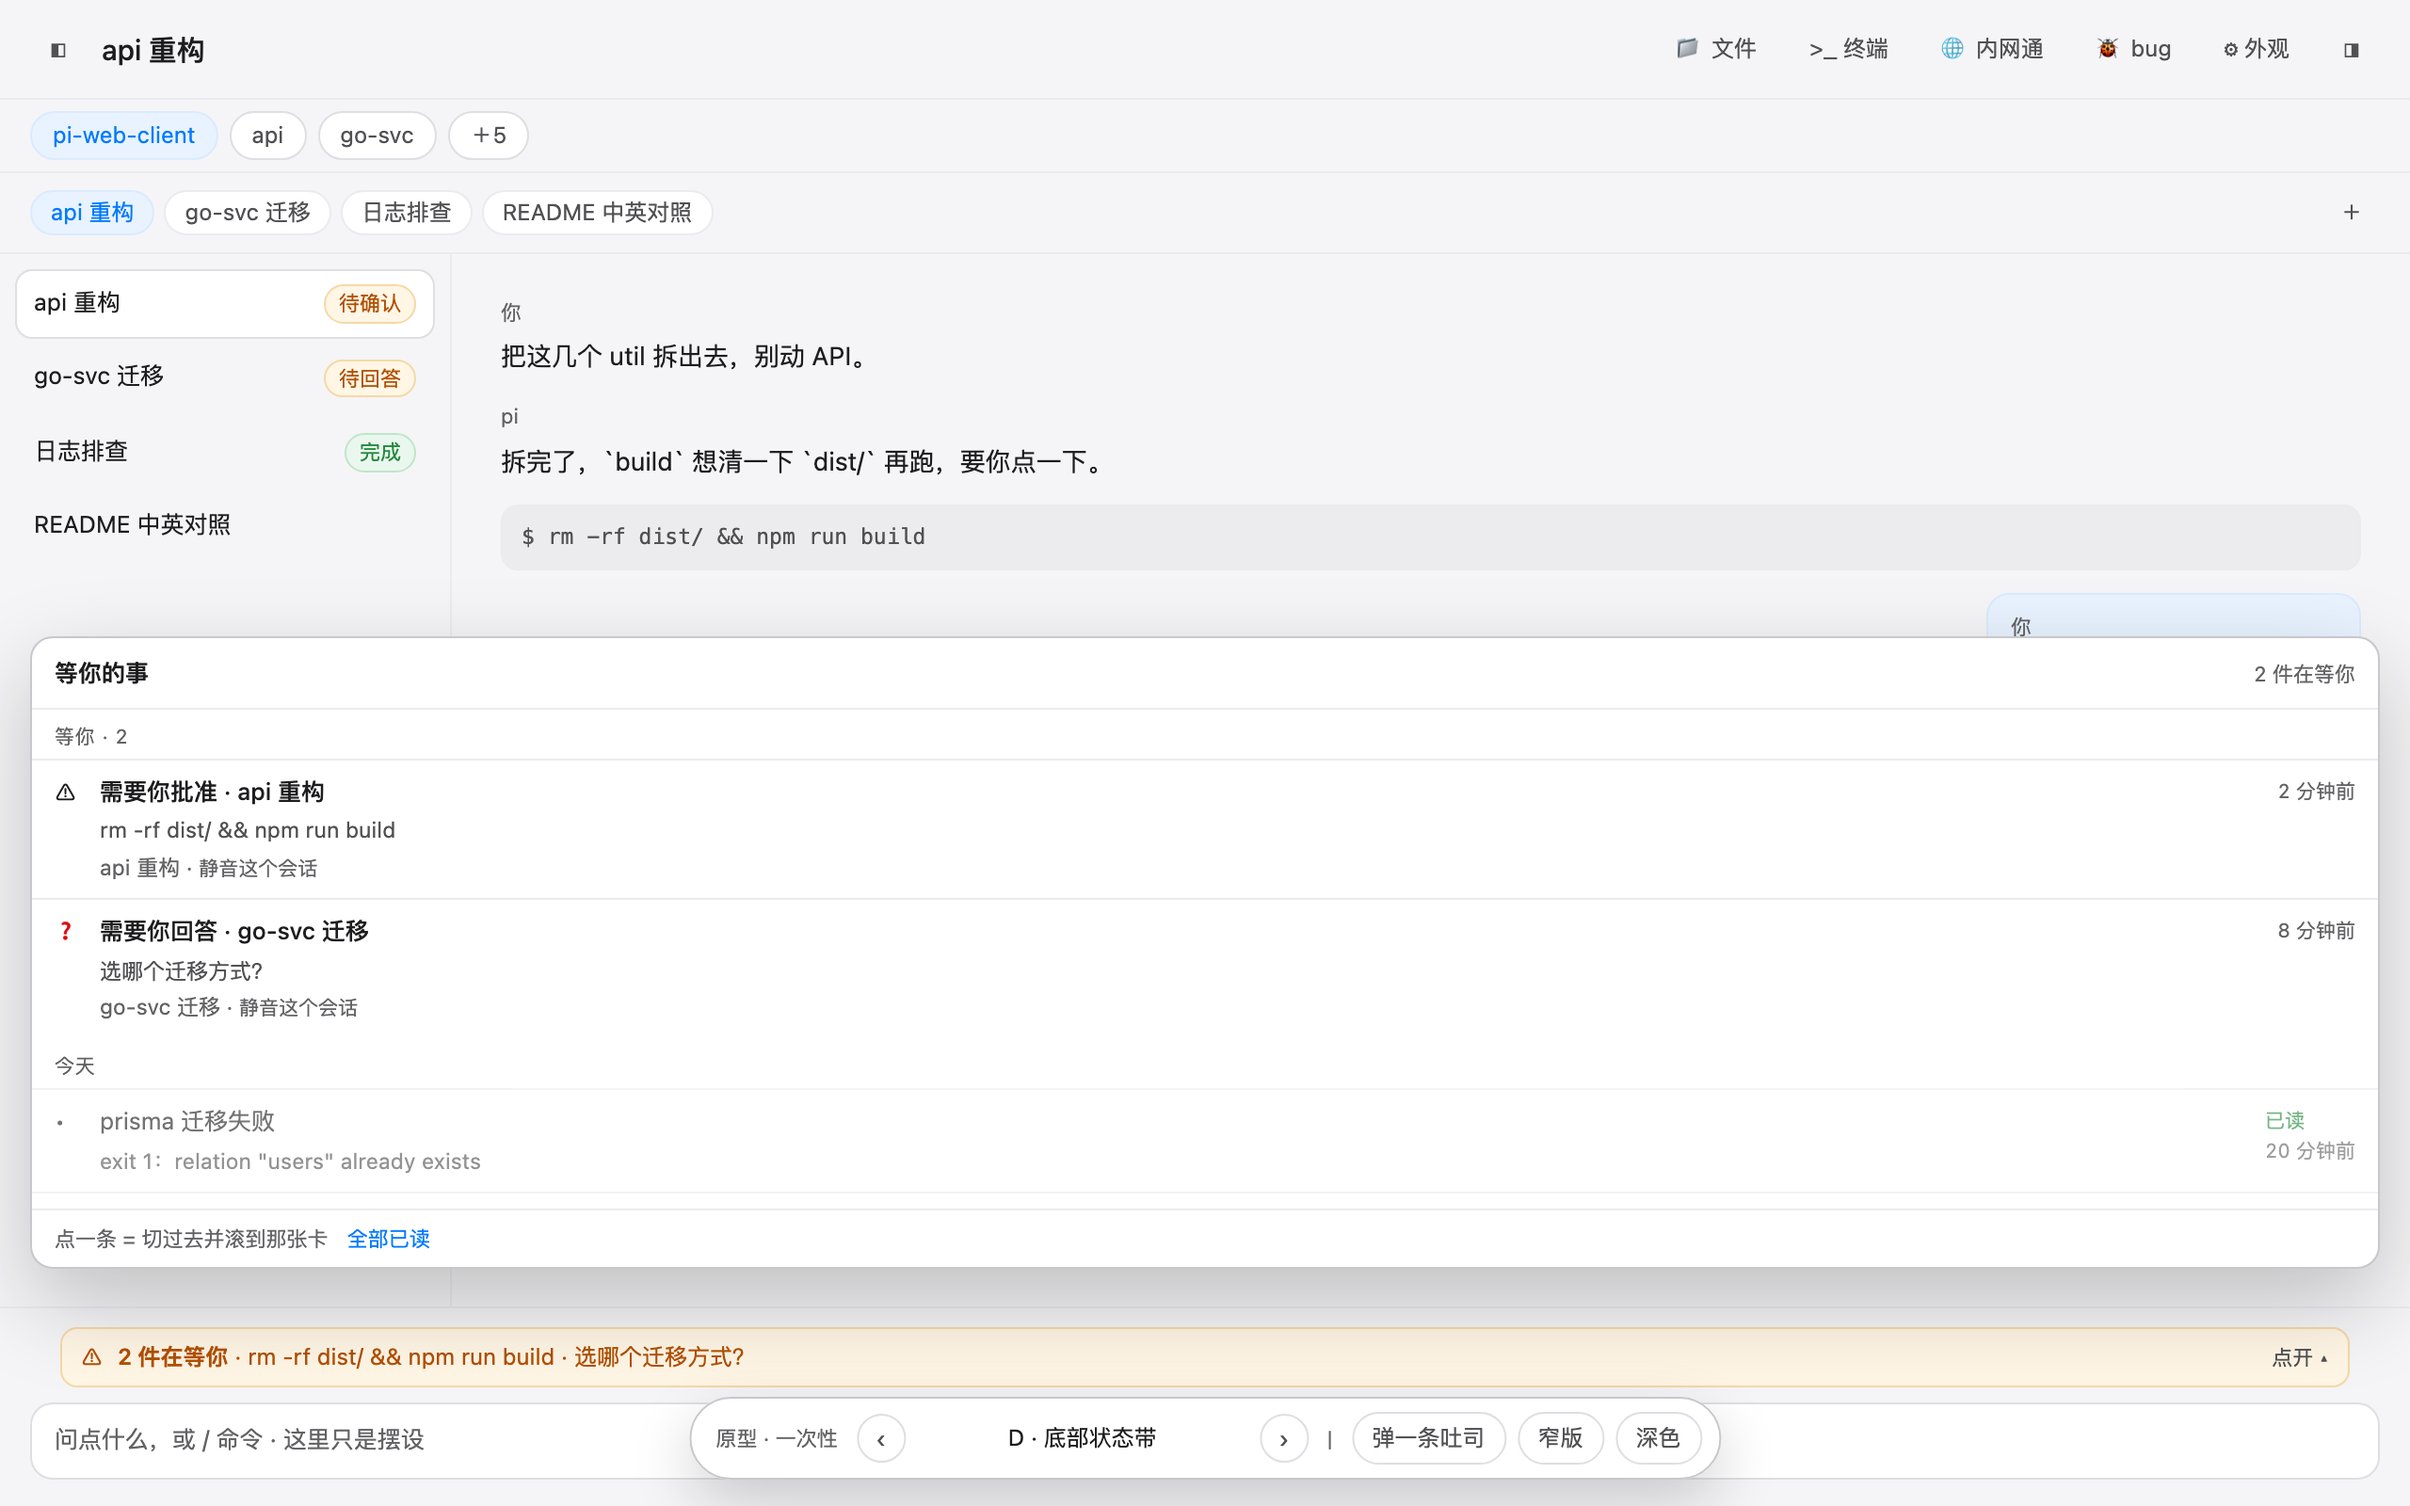
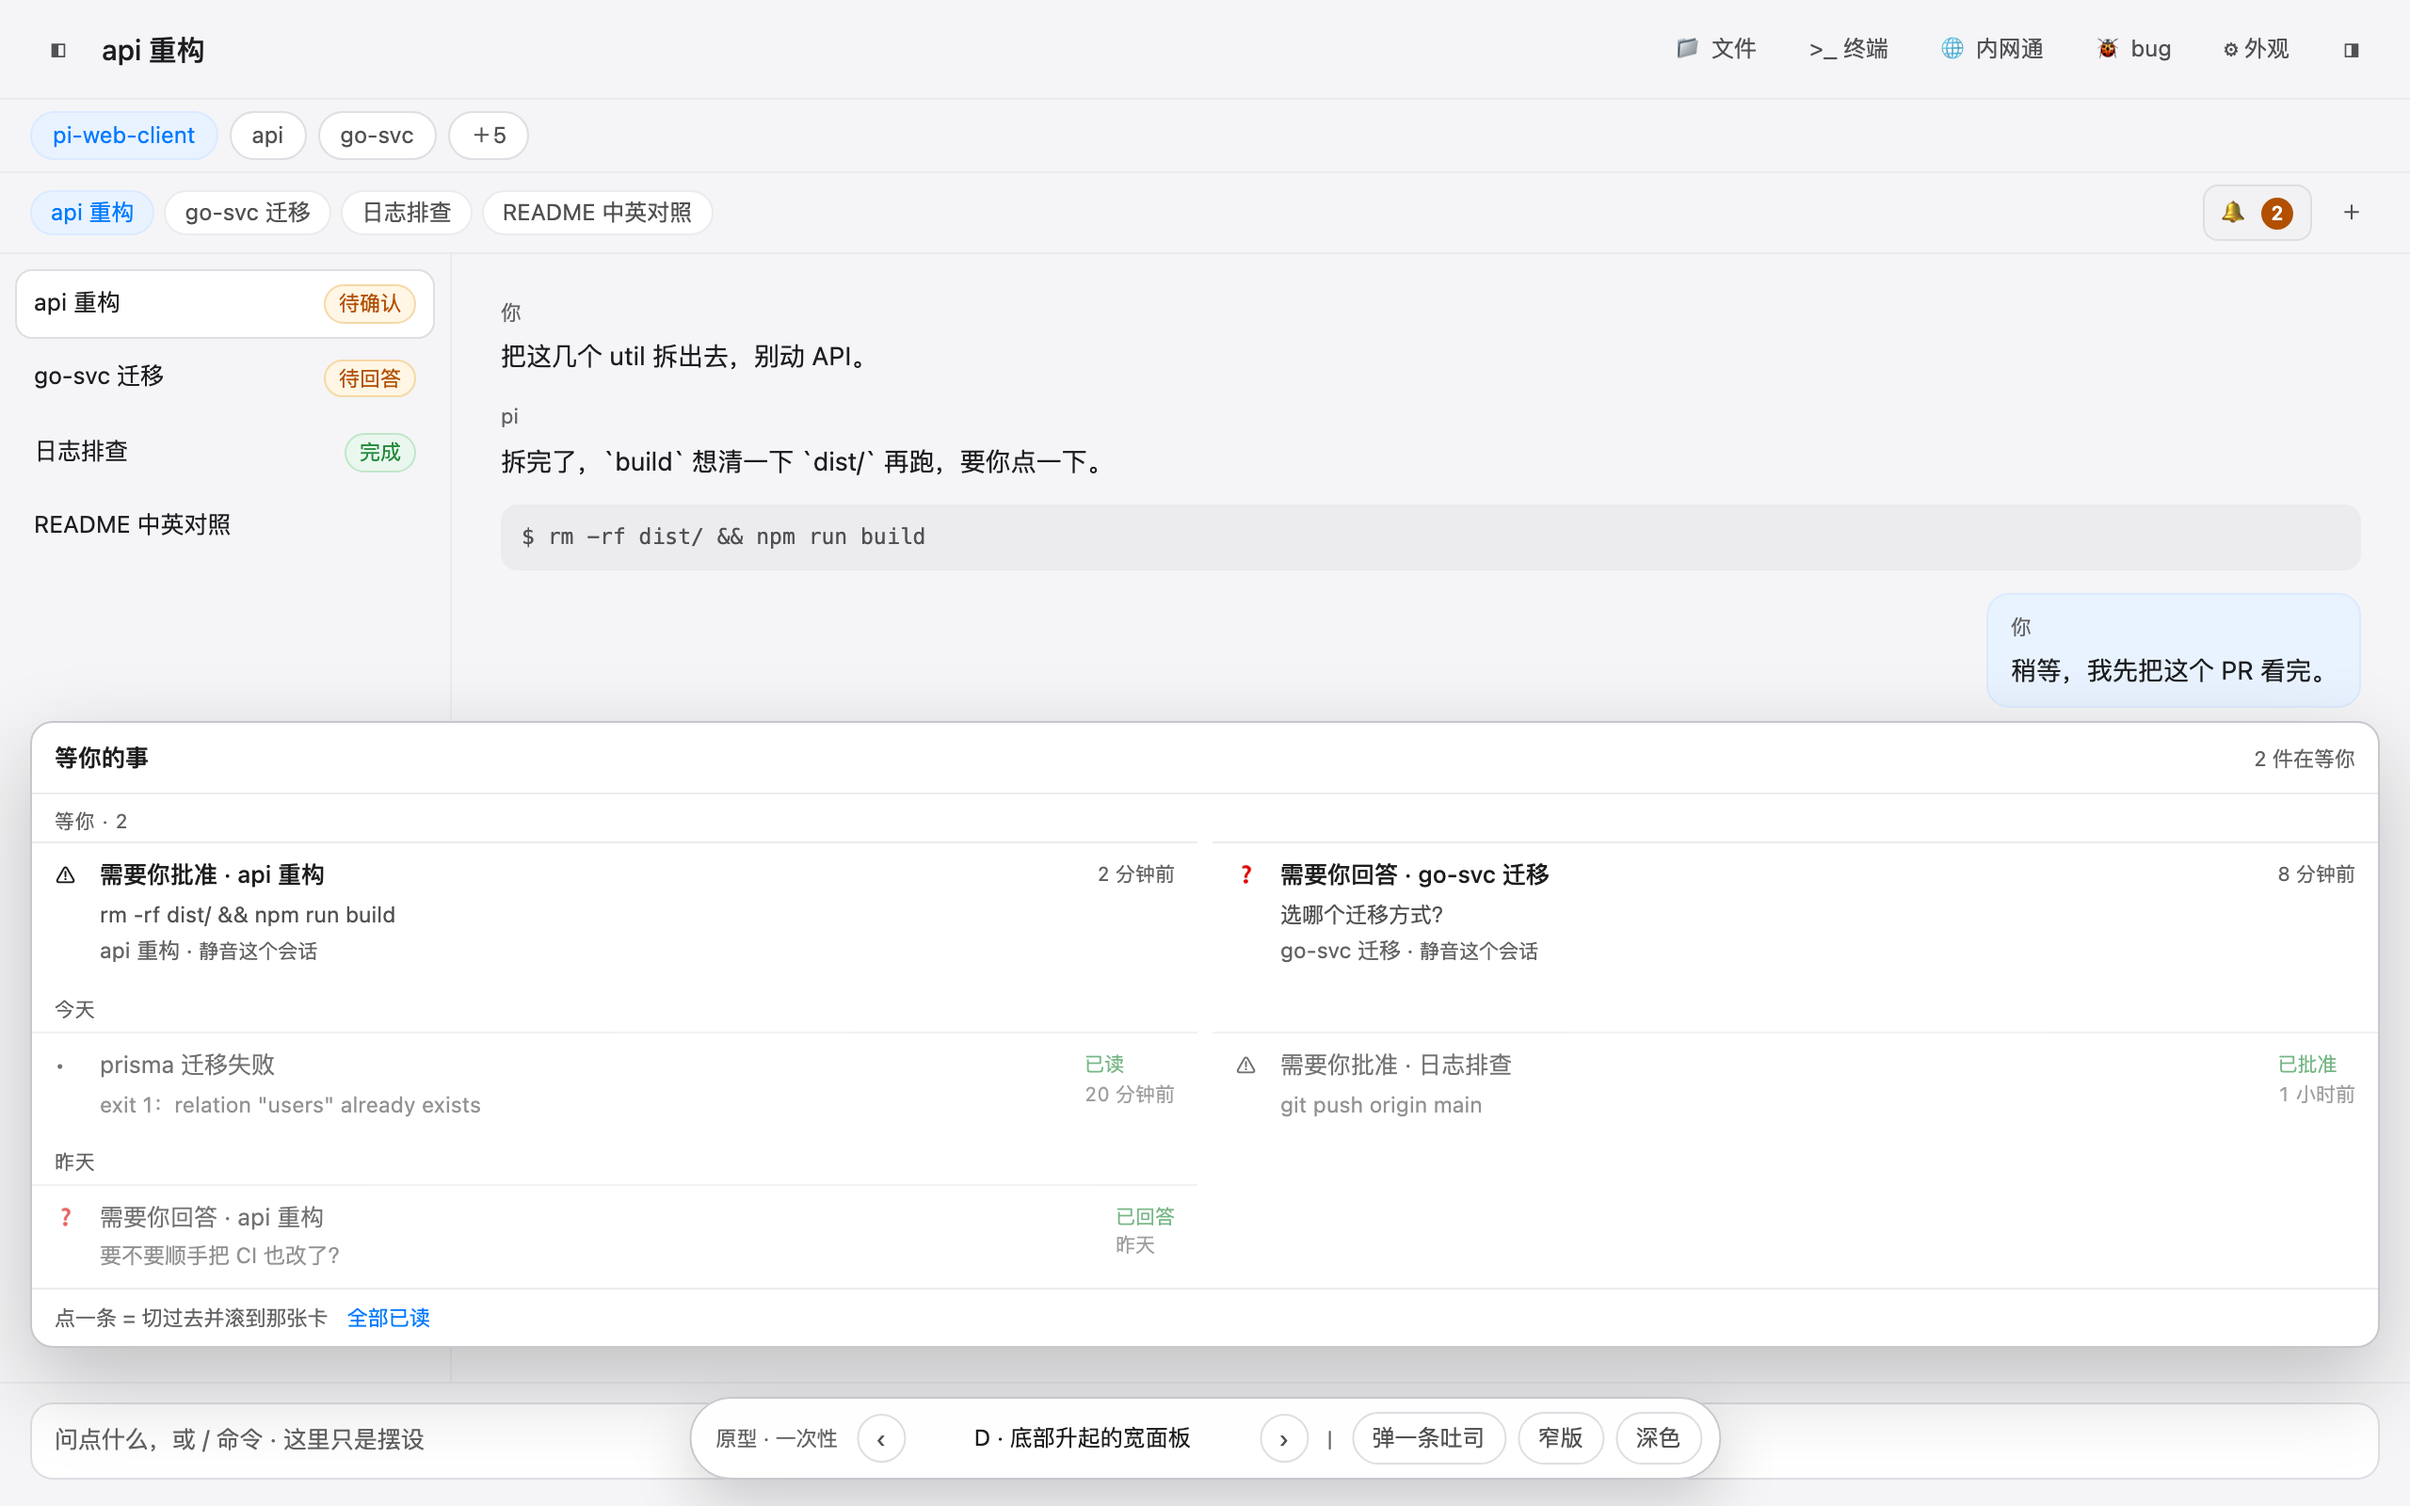
Reframe variant D: bell stays on the session row, panel rises from the composer
D's original bet was "don't spend the top-right corner", which stopped
mattering once the bell moved to the ★ row. It now varies the panel
instead: a full-width two-column list docked above the composer. The
bottom strip and its second entry point are gone.

diff --git a/proto/reminders-ui/index.html b/proto/reminders-ui/index.html
@@ -168,19 +168,12 @@
   }
   body[data-variant="C"] .pop-body { flex: 1; }
 
-  /* D：底部状态带，输入框上方，点开往上长 */
+  /* D：角标 / 位置都不变，只把面板换成一整条贴着输入框的宽面板，列表走两栏 */
   body[data-variant="D"] .remind-pop {
-    position: fixed; left: 16px; right: 16px; bottom: 126px; width: auto; max-height: 42vh;
+    position: fixed; left: 16px; right: 16px; bottom: 84px; width: auto; max-height: 46vh;
   }
-  body[data-variant="D"] .remind-btn { display: none; }
-  .remind-strip { display: none; }
-  body[data-variant="D"] .remind-strip {
-    display: flex; align-items: center; gap: 8px; margin: 0 16px 8px; cursor: pointer;
-    border: 1px solid var(--warn-dim); background: var(--warn-bg); color: var(--warn);
-    border-radius: 9px; padding: 6px 10px; font-size: 12px;
-  }
-  .remind-strip b { font-weight: 600; }
-  .remind-strip .more { margin-left: auto; color: var(--dim); font-size: 11px; }
+  body[data-variant="D"] .pop-body { display: grid; grid-template-columns: 1fr 1fr; align-content: start; column-gap: 8px; }
+  body[data-variant="D"] .pop-body > .grp { grid-column: 1 / -1; }
 
   /* ── 提醒：吐司（右上角，自己消失，悬停暂停） ────────────────────────────── */
   .toasts { position: fixed; top: 146px; right: 16px; z-index: 60; display: flex; flex-direction: column; gap: 8px; width: 320px; }
@@ -287,11 +280,6 @@
   </main>
 
   <footer class="composer">
-    <div class="remind-strip" id="remindStrip">
-      <span aria-hidden="true">⚠</span>
-      <span><b>2 件在等你</b> · 审批 rm -rf dist/ · 问卷「选哪个迁移方式」</span>
-      <span class="more">点开 ▴</span>
-    </div>
     <div class="box">问点什么，或 / 命令 · <span style="color:var(--faint)">这里只是摆设</span></div>
   </footer>
 </div>
@@ -325,13 +313,13 @@ const BETS = {
   A: "<b>A · 会话行右侧 + 下拉清单</b><br>赌「情报比操作重要」：角标钉在 ★ 行右端（不挤顶栏那 10 颗），点开是 340px 的两行清单，只负责让你知道、跳过去，不复制审批 UI。",
   B: "<b>B · 同一个位置 + 极密列表</b><br>赌「你一屏能扫完」：单行只留标题与时间，正文悬停才出。看得多、认得快，但「rm -rf dist/」这种要点得先悬停才敢点。",
   C: "<b>C · 右侧窄抽屉</b><br>赌「你愿意腾出 320px」：清单固定不随顶栏滚走，能停在那儿一格一格处理。代价是窄屏要么全宽盖住正文，要么干脆不出。",
-  D: "<b>D · 底部状态带</b><br>赌「右上角是黄金位置」：不占顶栏，紧贴输入框，向上长。你正在打字时它的视线成本最低；反过来，全屏阅读时它离眼睛最远。",
+  D: "<b>D · 从底部升起的宽面板</b><br>赌「一屏看完」：角标还在 ★ 行，点开后不开小下拉，而是在输入框上方升起一整条两栏面板 —— 条目多时最省滚动；代价是它盖住正文底部，读长文时最碍事。",
   E: "<b>E · 按会话分组</b><br>赌「你关心的是哪个会话，不是哪一条」：一张会话卡里装它全部的等待（待确认 2 + 待回答 1），点卡 = 切过去。会话一多卡就少；但跨会话的「最近的先看」就读不出来了。",
 };
 
 const $ = (s, r = document) => r.querySelector(s);
 const state = { variant: "A", open: false, narrow: false, dark: false };
-const NAMES = { A: "会话行右侧 + 下拉清单", B: "会话行右侧 + 极密列表", C: "右侧窄抽屉", D: "底部状态带", E: "按会话分组" };
+const NAMES = { A: "会话行右侧 + 下拉清单", B: "会话行右侧 + 极密列表", C: "右侧窄抽屉", D: "底部升起的宽面板", E: "按会话分组" };
 
 function rel(at) {
   if (at > -60) return `${Math.abs(at)} 分钟前`;
@@ -405,9 +393,6 @@ function renderList() {
   }
   $("#remindBadge").textContent = String(waiting.length);
   $("#remindBtn").dataset.count = String(waiting.length);
-  $("#remindStrip").innerHTML = waiting.length
-    ? `<span aria-hidden="true">⚠</span><span><b>${waiting.length} 件在等你</b> · ${waiting.map((r) => r.body).join(" · ")}</span><span class="more">点开 ▴</span>`
-    : `<span aria-hidden="true">✓</span><span><b>没有在等你的了</b></span><span class="more"></span>`;
 }
 
 function toast(title, body) {
@@ -451,10 +436,9 @@ function step(delta) {
 
 /* ── 接线 ─────────────────────────────────────────────────────────────────── */
 $("#remindBtn").addEventListener("click", (e) => { e.stopPropagation(); setOpen(!state.open); });
-$("#remindStrip").addEventListener("click", () => setOpen(!state.open));
 document.addEventListener("click", (e) => {
   if (!state.open) return;
-  if (e.target.closest("#remindPop") || e.target.closest("#remindBtn") || e.target.closest("#remindStrip")) return;
+  if (e.target.closest("#remindPop") || e.target.closest("#remindBtn")) return;
   setOpen(false);
 });
 document.addEventListener("keydown", (e) => { if (e.key === "Escape") setOpen(false); });

diff --git a/proto/reminders-ui/README.md b/proto/reminders-ui/README.md
@@ -29,7 +29,7 @@ open 'proto/reminders-ui/index.html?variant=C&toast=0'
 | **A** | ★ 行右端角标 → 下拉清单（340px，每条两行） | 清单只负责「让你知道 + 跳过去」 | 跨会话一多，清单就是一个长流水 |
 | **B** | 同一个角标位置 → 极密单行列表（256px，正文悬停才出） | 你一屏能扫完，认得快 | `rm -rf dist/` 这种得先悬停才敢点 |
 | **C** | 角标仍在 ★ 行右端 → 右侧固定窄抽屉（320px） | 你愿意腾出 320px，让它停在那一格一格处理 | 窄屏要么全宽盖住正文，要么干脆不出 |
-| **D** | 干脆不要角标：输入框上方一条状态带，点开往上长 | 右上角是黄金位，紧贴输入框的视线成本最低 | 全屏阅读时它离眼睛最远；顶栏就没有常驻数字了 |
+| **D** | 角标在同一位置 → 点开不是小下拉，而是贴着输入框升起的整条两栏面板（全宽） | 条目多时最省滚动，一屏看完 | 盖住正文底部，读长文时最碍事 |
 | **E** | 同一个角标位置 → 按**会话**分组（一张卡装一个会话的全部等待） | 你关心的是「哪个会话在等我」，不是「哪一条」 | 跨会话的「最近的先看」读不出来 |
 
 截图：`shot-A.png` … `shot-E.png`，另加 `shot-toast.png`（吐司单张）、`shot-narrow.png`（620px 宽）。
